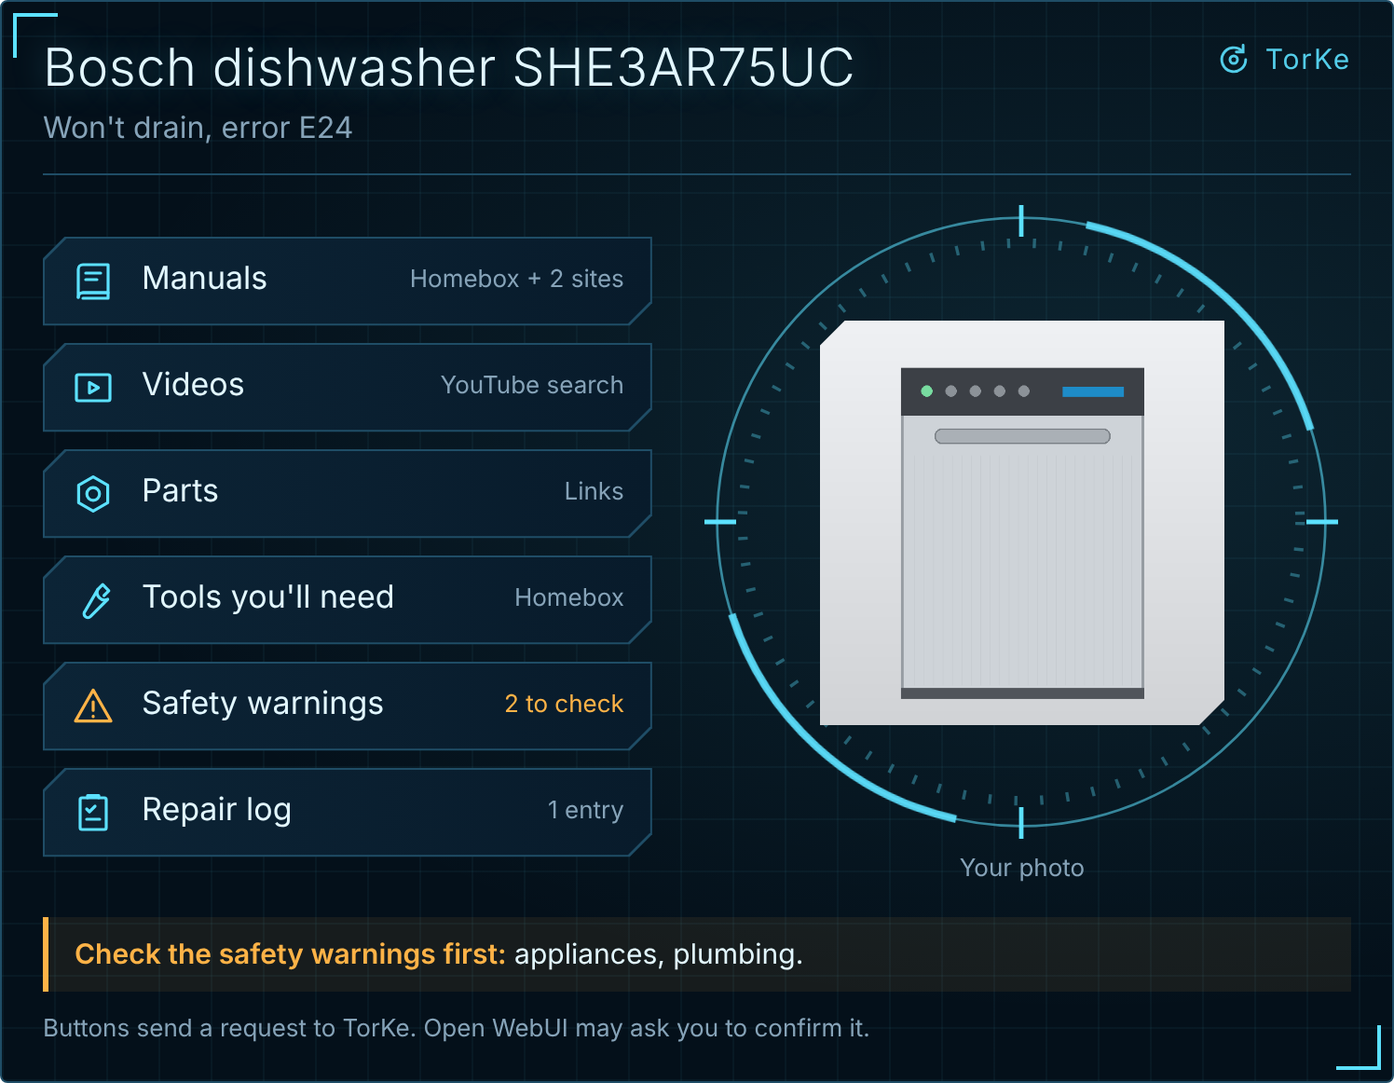
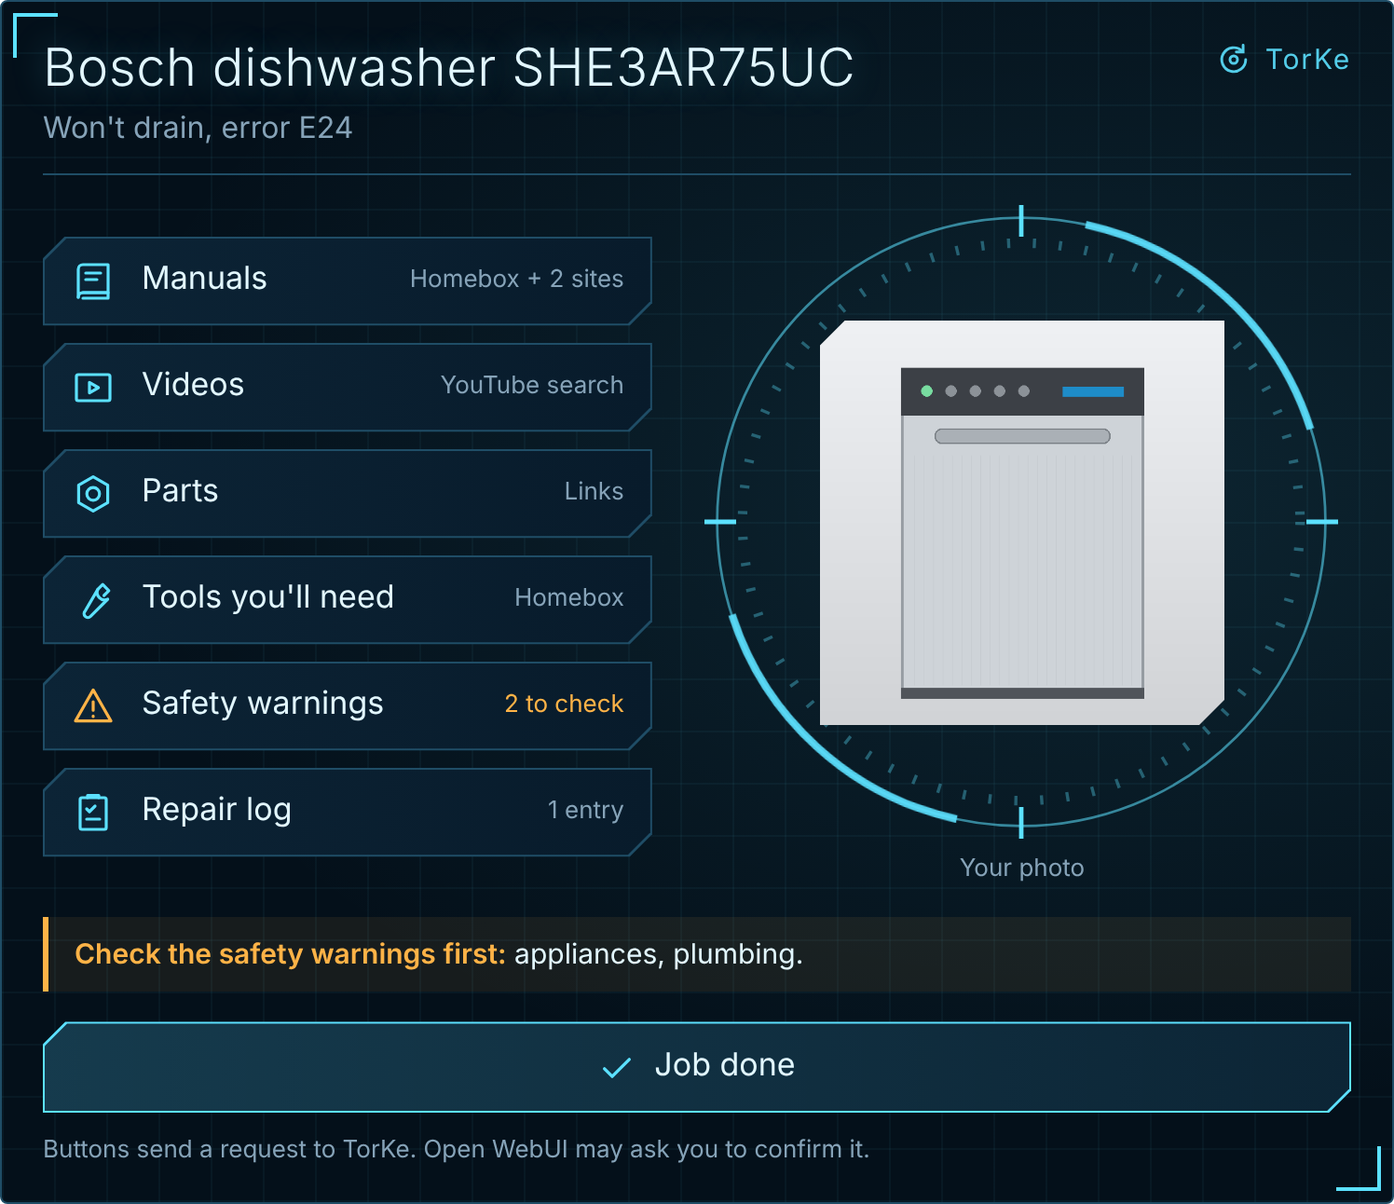
Job done: close out a job in one press
- Project card gets a Job done button (when Homebox is connected)
- complete_job shows a close-out card: installed parts to archive, rented or
  borrowed tools to return, and anything still on the lists for that job
- One Finish job button: finish_job archives the parts, returns the rentals,
  takes leftovers off the lists and writes the repair log with part numbers
- Only items for that item and job are touched; nothing is deleted
- Prompt, docs, previews and tests updated (46 passing)

Claude-Session: https://claude.ai/code/session_01AABjJpibVn18a4M8Uyw288

diff --git a/torke.py b/torke.py
@@ -1088,6 +1088,14 @@ ul.blades li:hover,ul.blades li:focus-within{filter:drop-shadow(0 0 7px rgba(92,
 .pic svg{width:58%;height:58%;stroke:var(--arc);fill:none;stroke-width:1.4;opacity:.85}
 .credit{font-size:13px;color:var(--steel);text-align:center;margin-top:8px;max-width:340px;justify-self:center}
 .right{display:grid}
+.done{all:unset;box-sizing:border-box;display:block;width:100%;margin-top:16px;cursor:pointer;padding:1px;background:var(--arc);
+ clip-path:polygon(var(--cut) 0,100% 0,100% calc(100% - var(--cut)),calc(100% - var(--cut)) 100%,0 100%,0 var(--cut))}
+.done span{display:flex;align-items:center;justify-content:center;gap:10px;padding:12px 16px;font-size:17px;color:var(--ice);
+ background:linear-gradient(90deg,rgba(92,225,255,.16),rgba(92,225,255,.05)),var(--panel);
+ clip-path:polygon(var(--cut) 0,100% 0,100% calc(100% - var(--cut)),calc(100% - var(--cut)) 100%,0 100%,0 var(--cut))}
+.done svg{width:20px;height:20px;stroke:var(--arc);fill:none;stroke-width:2;stroke-linecap:round;stroke-linejoin:round}
+.done:hover span,.done:focus-visible span{background:rgba(92,225,255,.22)}
+.done:focus-visible{outline:none}
 .strip{margin-top:16px;padding:10px 14px;border-left:3px solid var(--amber);background:rgba(255,179,71,.08);color:var(--ice);font-size:15px}
 .strip b{color:var(--amber);font-weight:600}
 @media (max-width:520px){.deck{grid-template-columns:1fr}.right{order:-1}.scope{max-width:260px}h1{font-size:24px}}
@@ -1141,7 +1149,7 @@ _PLACEHOLDERS = {
 }
 
 
-def _splash_html(p: dict, picture: dict, blades: list, hazards: list) -> str:
+def _splash_html(p: dict, picture: dict, blades: list, hazards: list, done_prompt: str = "") -> str:
     cat = p.get("category") if p.get("category") in _PLACEHOLDERS else "other"
     src = _safe_img(picture.get("src", ""))
     if src:
@@ -1176,6 +1184,11 @@ def _splash_html(p: dict, picture: dict, blades: list, hazards: list) -> str:
         names = ", ".join(h["name"] for h in hazards[:4])
         strip = f'<div class="strip"><b>Check the safety warnings first:</b> {_esc(names)}.</div>'
 
+    done = ""
+    if done_prompt:
+        prompts.append(done_prompt)
+        done = (f'<button type="button" class="done" onclick="ask(P[{len(prompts) - 1}])"><span>'
+                f'<svg viewBox="0 0 24 24" aria-hidden="true"><path d="M4 12.5l5 5L20 6.5"/></svg>Job done</span></button>')
     job = p.get("problem") or "Tell TorKe what's wrong, or pick where to start."
     ring = (
         '<svg class="ring" viewBox="0 0 200 200" aria-hidden="true">'
@@ -1193,7 +1206,7 @@ def _splash_html(p: dict, picture: dict, blades: list, hazards: list) -> str:
         f'<header><div><h1>{_esc(p["item"])}</h1><p class="job">{_esc(job)}</p></div>{_MARK}</header>'
         f'<div class="deck"><ul class="blades">{"".join(items)}</ul>'
         f'<div class="right"><div class="scope">{ring}<div class="pic">{pic}</div></div>'
-        f'<p class="credit">{credit}</p></div></div>{strip}'
+        f'<p class="credit">{credit}</p></div></div>{strip}{done}'
         f'<p class="hint">Buttons send a request to TorKe. Open WebUI may ask you to confirm it.</p>'
         f'</section><script>const P={_js(prompts)};</script>{_SIZER}</body></html>'
     )
@@ -1377,6 +1390,43 @@ def _shopping_html(tools: list, parts: list, item: str) -> str:
         f'<p class="hint">Everything here is kept in Homebox. Links open in a new tab, and TorKe never buys anything. '
         f'Buttons send a request to TorKe, and Open WebUI may ask you to confirm it.</p>'
         f'</section><script>const P={_js(prompts)};</script>{_SIZER}</body></html>'
+    )
+
+
+def _closeout_html(item: str, job: str, c: dict) -> str:
+    def rows(entries, note_fn, empty):
+        if not entries:
+            return f'<li class="none">{empty}</li>'
+        return "".join(f'<li class="row need"><span class="mk" aria-hidden="true"></span><div>'
+                       f'<div class="tn">{_esc(e["name"])}</div>'
+                       + (f'<div class="tw">{_esc(note_fn(e))}</div>' if note_fn(e) else "") + "</div></li>"
+                       for e in entries)
+
+    def pn(e):
+        f = e.get("fields", {})
+        return f"Part {f['Part number']}" if f.get("Part number") else ""
+
+    prompt = f"Finish the job on {item}: archive the parts, return the rentals, take the rest off the lists, and log it."
+    left = ""
+    if c["leftover"]:
+        left = (f'<div class="panel"><div class="in"><h2>Take off the lists <span>{len(c["leftover"])}</span></h2>'
+                f'<ul class="rows">{rows(c["leftover"], lambda e: "No longer needed for this job", "")}</ul></div></div>')
+    return (
+        f'<!doctype html><html lang="en"><head><meta charset="utf-8">'
+        f'<meta name="viewport" content="width=device-width,initial-scale=1">'
+        f'<style>{_HUD_CSS}{_TOOLS_CSS}{_SHOP_CSS}</style></head><body>'
+        f'<section class="hud tools shop" aria-label="Close out the job">'
+        f'<header><div><h1>Job done</h1><p class="job">{_esc(item)}{": " + _esc(job) if job else ""}</p></div>{_MARK}</header>'
+        f'<div class="cols"><div class="panel"><div class="in"><h2>Parts to archive <span>{len(c["parts"])}</span></h2>'
+        f'<p class="lead">Installed, old ones tossed. They stay in Homebox as parts history.</p>'
+        f'<ul class="rows">{rows(c["parts"], pn, "No parts on the shelf for this job.")}</ul></div></div>'
+        f'<div class="panel"><div class="in"><h2>Tools to return <span>{len(c["rented"])}</span></h2>'
+        f'<p class="lead">Rented or borrowed for this job.</p>'
+        f'<ul class="rows">{rows(c["rented"], lambda e: "", "Nothing rented or borrowed.")}</ul></div></div>{left}</div>'
+        f'<button type="button" class="cta" onclick="ask(P[0])"><span>Finish job: archive, return and log it</span></button>'
+        f'<p class="hint">One tap does it all and writes the repair log. Nothing is deleted; archived items can be '
+        f'restored in Homebox. Open WebUI may ask you to confirm.</p>'
+        f'</section><script>const P={_js([prompt])};</script>{_SIZER}</body></html>'
     )
 
 
@@ -1643,6 +1693,14 @@ class Tools:
         return not item or _overlap(item, e.get("description", "")) >= 0.5
 
     @staticmethod
+    def _for_job(e: dict, item: str, job: str) -> bool:
+        """For this item, and for this job when both the job and the entry's job are known."""
+        if not item or _overlap(item, e.get("description", "")) < 0.5:
+            return False
+        desc_job = e.get("description", "").split(":", 1)[1] if ":" in e.get("description", "") else ""
+        return not job or not desc_job.strip() or _overlap(job, desc_job) >= 0.5 or _overlap(desc_job, job) >= 0.5
+
+    @staticmethod
     def _desc(item: str, job: str) -> str:
         if item and job:
             return f"For {item}: {job}"
@@ -1787,7 +1845,8 @@ class Tools:
             + f"Hazards to cover: {', '.join(h['name'] for h in hazards) if hazards else 'none flagged beyond general rules'}. "
             "The user can see the card; don't repeat it. Ask the next useful question in a sentence or two."
         )
-        return _card(_splash_html(p, picture, blades, hazards), context)
+        done_prompt = f"The job is done: {thing}{job}. Close it out." if hb else ""
+        return _card(_splash_html(p, picture, blades, hazards, done_prompt), context)
 
     # ------------------------------------------------------------------ 2. videos
 
@@ -2909,6 +2968,119 @@ class Tools:
                    "Picked up a rental: rental_picked_up. Parts that arrived: parts_arrived. Installed parts: "
                    "use_parts, then log_repair.")
         return _card(_shopping_html(tools, parts, item), context)
+
+    # ------------------------------------------------------------------ 6b. job done
+
+    def _closeout(self, hb: _Homebox, item: str, job: str) -> dict:
+        lists = self._lists(hb)
+        f = lambda rows: [e for e in rows if self._for_job(e, item, job)]  # noqa: E731
+        parts = [_Homebox._norm(hb.detail(e["id"])) for e in f(lists["on_shelf"])]
+        return {"parts": parts, "rented": f(lists["rented"]),
+                "leftover": f(lists["tools_to_get"]) + f(lists["parts_to_get"])}
+
+    async def complete_job(
+        self,
+        item: str = "",
+        job: str = "",
+        __user__: Optional[dict] = None,
+        __chat_id__: Optional[str] = None,
+        __event_emitter__: Optional[Callable] = None,
+    ):
+        """
+        The job is done (the user said so or tapped Job done). Shows a card of everything to close out: parts
+        installed (to archive), rented or borrowed tools (to return), anything still on the lists for this job
+        (to take off), and the repair log entry, with one Finish job button. Call finish_job when they say yes.
+        :param item: what was fixed (the open project if empty)
+        :param job: the job (the open project if empty)
+        """
+        hb, msg = self._need_hb()
+        if not hb:
+            return msg
+        p = self._project(__chat_id__, __user__)
+        item = str(item or p.get("item", "")).strip()
+        job = str(job or p.get("problem", "")).strip()
+        if not item:
+            return "Ask what was fixed."
+        await _status(__event_emitter__, "Getting the close-out ready")
+        try:
+            c = await _run(self._closeout, hb, item, job)
+        except Exception as e:
+            return f"Homebox couldn't be read: {str(e)[:150]}"
+        await _status(__event_emitter__, "Ready to close out", True)
+        lines = (["Parts to archive (installed): " + (", ".join(e["name"] for e in c["parts"]) or "none"),
+                  "Rented or borrowed to return: " + (", ".join(e["name"] for e in c["rented"]) or "none"),
+                  "Still on the lists, to take off: " + (", ".join(e["name"] for e in c["leftover"]) or "none")])
+        context = (f"Close-out card shown for {item}{' (' + job + ')' if job else ''}.\n" + "\n".join(lines)
+                   + "\nDon't repeat it. Ask for anything worth adding to the repair log (mileage, what fixed it). "
+                     "When they tap Finish job or say yes, call finish_job with those notes. If they want to keep "
+                     "something, do the rest one by one instead.")
+        return _card(_closeout_html(item, job, c), context)
+
+    async def finish_job(
+        self,
+        item: str = "",
+        job: str = "",
+        notes: str = "",
+        __user__: Optional[dict] = None,
+        __chat_id__: Optional[str] = None,
+        __event_emitter__: Optional[Callable] = None,
+    ) -> str:
+        """
+        Close out a finished job in one go, after the user says yes (the Finish job button counts): archives the
+        installed parts, archives rented and borrowed tools as returned, takes anything left for this job off the
+        lists, and writes the repair log entry with the parts and part numbers. Nothing is deleted.
+        :param item: what was fixed (the open project if empty)
+        :param job: the job, used as the repair log title (the open project if empty)
+        :param notes: what was wrong and what fixed it, mileage, anything to remember next time (optional)
+        """
+        hb, msg = self._need_hb()
+        if not hb:
+            return msg
+        if self._cant_write():
+            return self._cant_write()
+        p = self._project(__chat_id__, __user__)
+        item = str(item or p.get("item", "")).strip()
+        job = str(job or p.get("problem", "")).strip()
+        if not item:
+            return "Ask what was fixed."
+        await _status(__event_emitter__, "Closing out the job")
+        done = {"parts": [], "rented": [], "leftover": []}
+        try:
+            c = await _run(self._closeout, hb, item, job)
+            for e in c["parts"]:
+                await _run(self._edit, hb, e, quantity=0, archived=True, remove_tags=(self.valves.homebox_to_get_tag,))
+                pn = e.get("fields", {}).get("Part number", "")
+                done["parts"].append(e["name"] + (f" ({pn})" if pn else ""))
+            for k in ("rented", "leftover"):
+                for e in c[k]:
+                    await _run(self._edit, hb, e, quantity=0, archived=True)
+                    done[k].append(e["name"])
+        except Exception as e:
+            return f"Homebox couldn't be updated partway through: {str(e)[:150]}. Done so far: {done}"
+        details = "\n".join(x for x in (
+            str(notes or "").strip(),
+            ("Parts installed: " + ", ".join(done["parts"])) if done["parts"] else "",
+            ("Rented or borrowed, returned: " + ", ".join(done["rented"])) if done["rented"] else "") if x)
+        logged = ""
+        try:
+            ent = await _run(hb.find, item)
+            if ent:
+                await _run(hb.add_maintenance, ent["id"], {"name": (job or "Repair")[:120], "description": details[:4000],
+                                                           "completedDate": datetime.date.today().isoformat()})
+                logged = f"Logged on {ent['name']}."
+            else:
+                logged = f"'{item}' isn't in Homebox, so the repair log entry wasn't written."
+        except Exception as e:
+            logged = f"The repair log entry couldn't be written ({str(e)[:100]})."
+        await _status(__event_emitter__, "Job closed out", True)
+        out = ["Job closed out."]
+        if done["parts"]:
+            out.append(f"Parts archived: {', '.join(done['parts'])}.")
+        if done["rented"]:
+            out.append(f"Returned: {', '.join(done['rented'])}.")
+        if done["leftover"]:
+            out.append(f"Taken off the lists: {', '.join(done['leftover'])}.")
+        return " ".join(out + [logged])
 
     # ------------------------------------------------------------------ 7. repair log (Homebox maintenance log)
 

diff --git a/tests/test_torke.py b/tests/test_torke.py
@@ -630,3 +630,40 @@ def test_rental_lifecycle(hbtool):
     assert jack["archived"]
     assert "still out" not in run(tool.log_repair("2012 Honda Civic", "Rotors", "x", __user__=USER))
     assert "Already in Homebox" in run(tool.save_my_tools(["Torque wrench 3/8"], __user__=USER))
+
+
+def test_job_done_closes_everything_in_one_press(hbtool):
+    tool, hb = hbtool
+    card, _ = body(run(tool.open_project("2012 Honda Civic", "front brakes", "vehicle", "Honda", "Civic", "2012",
+                                         __user__=USER, __chat_id__="j1")))
+    assert "Job done" in card and "The job is done: the 2012 Honda Civic (front brakes). Close it out." in card
+    run(tool.save_needed_parts([{"name": "Front brake pads", "part_number": "D1089"}, "Brake cleaner"],
+                               __user__=USER, __chat_id__="j1"))
+    run(tool.parts_arrived(["front brake pads"], __user__=USER))
+    run(tool.save_needed_tools(["floor jack"], rent=True, __user__=USER, __chat_id__="j1"))
+    run(tool.rental_picked_up(["floor jack"], __user__=USER))
+    run(tool.save_needed_tools(["breaker bar"], __user__=USER, __chat_id__="j1"))
+    run(tool.save_needed_parts(["Cabin air filter"], "air filter swap", "2012 Honda Civic", __user__=USER))  # other job
+    html, ctx = body(run(tool.complete_job(__user__=USER, __chat_id__="j1")))
+    assert "Parts to archive" in html and "Front brake pads" in html and "Part D1089" in html
+    assert "Tools to return" in html and "floor jack" in html
+    assert "Take off the lists" in html and "Brake cleaner" in html and "breaker bar" in html
+    assert "Cabin air filter" not in html
+    assert "Finish the job on 2012 Honda Civic: archive the parts, return the rentals" in html
+    out = run(tool.finish_job(notes="Pads and rotors at 104k mi", __user__=USER, __chat_id__="j1"))
+    assert "Parts archived: Front brake pads (D1089)" in out and "Returned: floor jack" in out
+    assert "Brake cleaner" in out and "breaker bar" in out and "Logged on 2012 Honda Civic" in out
+    for name in ("Front brake pads", "floor jack", "Brake cleaner", "breaker bar"):
+        assert hb.by_name(name)["archived"]
+    assert not hb.by_name("Cabin air filter")["archived"]
+    entry = hb.maint["e3"][-1]
+    assert entry["name"] == "front brakes" and "Parts installed: Front brake pads (D1089)" in entry["description"]
+    assert "Pads and rotors at 104k mi" in entry["description"] and "returned: floor jack" in entry["description"]
+
+
+def test_job_done_needs_homebox_and_write(tool, monkeypatch):
+    card, _ = body(run(tool.open_project("2012 Honda Civic", __user__=USER)))
+    assert "Job done" not in card
+    assert "Homebox isn't set up" in run(tool.complete_job("2012 Honda Civic", __user__=USER))
+    use_homebox(tool, monkeypatch, write=False)
+    assert "can only read Homebox" in run(tool.finish_job("2012 Honda Civic", "brakes", __user__=USER))

diff --git a/scripts/render_preview.py b/scripts/render_preview.py
@@ -74,8 +74,11 @@ async def build_cards(tmp: Path) -> dict:
         {"name": "Brake fluid, DOT 3"}], job, civic, __user__=user)
     await t.save_needed_parts(["Drain pump"], "Won't drain, error E24", "Bosch dishwasher SHE3AR75UC", __user__=user)
     shop, _ = await t.shopping_list(__user__=user)
+    await t.parts_arrived(["front brake pads", "front rotors"], __user__=user)
+    await t.rental_picked_up(["floor jack"], __user__=user)
+    done, _ = await t.complete_job(civic, job, __user__=user)
     return {"card-photo": photo.body.decode(), "card-vehicle": car.body.decode(), "card-tools": tools.body.decode(),
-            "card-shopping": shop.body.decode()}
+            "card-shopping": shop.body.decode(), "card-job-done": done.body.decode()}
 
 
 async def main(out: Path):

diff --git a/model/torke-system-prompt.md b/model/torke-system-prompt.md
@@ -7,7 +7,7 @@ How a job goes
 4. Diagnose before you prescribe. Start with the cheap, likely causes and simple checks, one or two at a time, and ask what they found.
 5. Before giving steps for anything risky, call safety_check and lead with what it returns, STOP items first.
 6. Give procedures as short numbered steps, one action per step, with what to check before moving on.
-7. When the job is done, ask "Want me to log it?" and call log_repair; it goes in the item's repair log in Homebox.
+7. When the job is done (they say so or tap Job done), call complete_job: it shows the parts to archive, rented or borrowed tools to return, and anything left on the lists. Ask for notes worth keeping (mileage, what fixed it). On their yes (the Finish job button counts), call finish_job with those notes; it does all of it and writes the repair log in one go.
 
 Specs and sources
 - Read the user's own manual first: read_item_manual reads PDFs attached to the item in Homebox or attached in this chat. Then the manual sites, with find_manuals.
@@ -22,8 +22,8 @@ Tools, parts and shopping (all kept in Homebox)
 - To work out a job's tools, use find_tools_in_manual when there's a manual or an iFixit guide. Otherwise list them from what you know and say so. Then call check_tools with the tools that apply; it shows what they have and what's missing.
 - A missing tool never means the job can't be done. For each one, offer the best way through: rent or borrow it (many auto parts stores lend specialty tools for a refundable deposit; tool rental shops rent bigger ones), a safe workaround with tools they have, or buying it if it's worth owning.
 - Nothing goes on a list without a yes; the buttons on the cards count as a yes.
-- Tools: save_needed_tools adds tools to get (rent=True for ones they'll rent or borrow). When they buy one or say they own one, save_my_tools (it moves off the tools to get). When they pick up a rental or borrowed tool, rental_picked_up; it counts as theirs for the job. Only when the job is over, ask whether rented or borrowed tools have gone back, then rental_returned. When they send a photo of tools, a kit's contents list or a receipt, read the tools from it, show the list, and save it after they confirm.
-- Parts: find them with find_parts, match part numbers to the exact model, then add the ones they still need with save_needed_parts, with the link and price. When they arrive, parts_arrived puts them on the parts shelf. Once installed (old ones tossed), use_parts archives them, then offer log_repair with the part numbers.
+- Tools: save_needed_tools adds tools to get (rent=True for ones they'll rent or borrow). When they buy one or say they own one, save_my_tools (it moves off the tools to get). When they pick up a rental or borrowed tool, rental_picked_up; it counts as theirs for the job. Returning it is part of closing out the job (complete_job, finish_job); don't bring it up before the job's done. When they send a photo of tools, a kit's contents list or a receipt, read the tools from it, show the list, and save it after they confirm.
+- Parts: find them with find_parts, match part numbers to the exact model, then add the ones they still need with save_needed_parts, with the link and price. When they arrive, parts_arrived puts them on the parts shelf. Installed parts are archived when the job is closed out (finish_job); use_parts is for archiving a part on its own.
 - Tools and parts are separate lists. shopping_list shows both side by side when they ask what to buy.
 - Never assume a torque wrench, jack stands or specialty tools; ask. "Kit" on the Tools card means their kit usually has it, so remind them to check the size.
 - You never buy anything; the user does.

diff --git a/docs/SETUP.md b/docs/SETUP.md
@@ -59,6 +59,7 @@ Each tool or part to get has "For" in its description, such as "For 2012 Honda C
 - **Tools:** the Tools card shows what you have and what's missing. A missing tool never stops the job: TorKe offers to rent or borrow it, a workaround with tools you have, or buying it. Missing tools go on your tools to get. A bought tool moves over to your tools. A rental counts as yours from pickup (Got it) until the job's done; then TorKe asks whether it's gone back and archives it.
 - **Parts:** parts you still need go on your parts to get. When they arrive, they move to the Parts shelf. Once installed (old ones tossed), they're archived and the job goes in the item's repair log with the part numbers.
 - **Shopping:** "What do I need to buy?" shows tools to get and parts to get side by side, with buy or rental links. The two lists stay separate.
+- **Job done:** the project card's **Job done** button shows what to close out: installed parts to archive, rented or borrowed tools to return, and anything left on the lists for that job. One tap on **Finish job** does it all and writes the repair log.
 
 **Manuals:** attach the PDF to the item in Homebox with the attachment type **Manual**. TorKe matches items by name, so name them the way people say them, such as "Bosch dishwasher SHE3AR75UC". TorKe reads text from PDFs; a manual that's only scanned pictures has no text, and TorKe says so.
 

diff --git a/README.md b/README.md
@@ -74,6 +74,14 @@ Ask "What do I need to buy?" and TorKe shows tools to get and parts to get side 
 - **Got it** on a tool moves it to your tools. On a rental, it marks it picked up for the job. On a part, it goes to the Parts shelf until it's installed; then it's archived and the job goes in the repair log.
 - **Returning rentals** comes up when the job is over, not before.
 
+## Job done
+
+<p align="center">
+  <img src="docs/card-job-done.png" width="640" alt="Job done card: parts to archive, tools to return, and items to take off the lists, with one Finish job button">
+</p>
+
+When you finish, tap **Job done** on the project card. TorKe shows everything to close out: the installed parts to archive, rented or borrowed tools to return, and anything still on the lists for that job. One tap on **Finish job** does all of it and writes the repair log with the part numbers.
+
 ## Manual sites
 
 All off by default:
